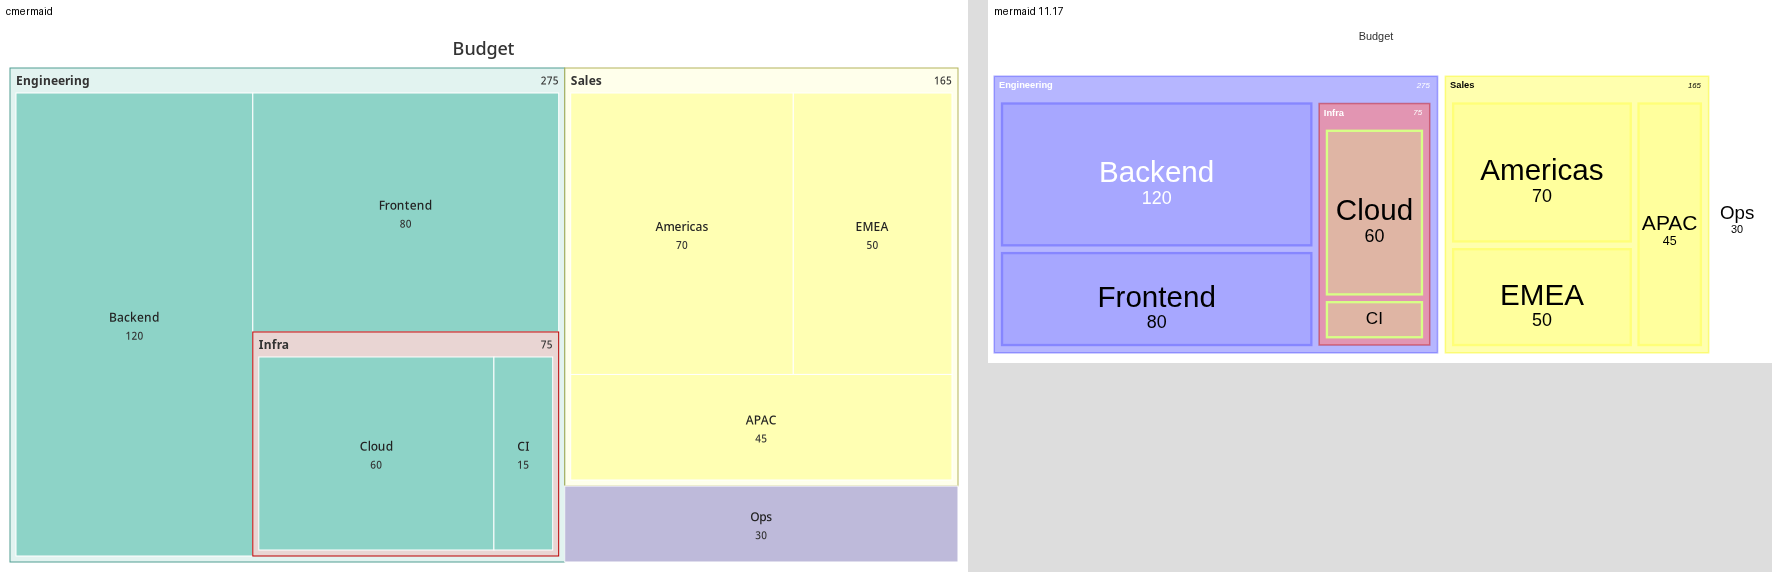
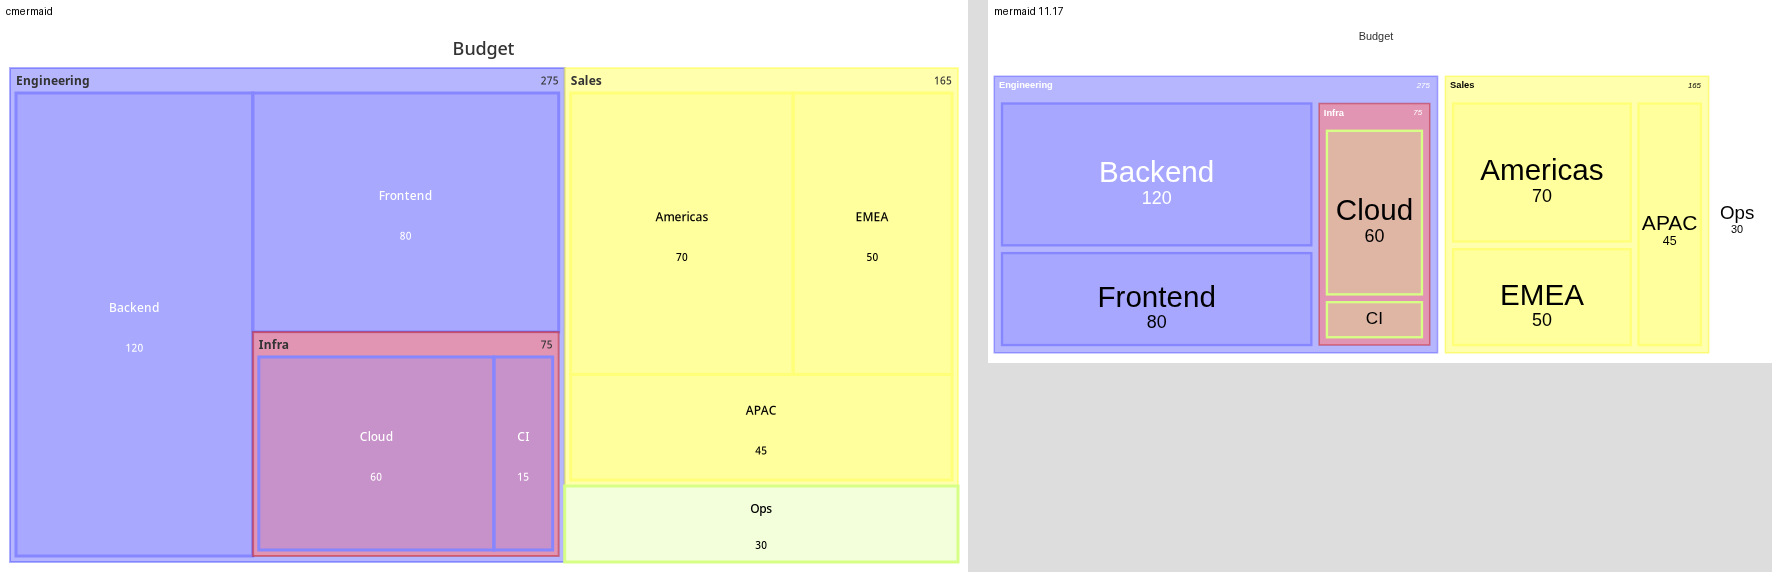
treemap: mermaid 11 cScale palette, translucent leaves with colour borders, fitted large leaf labels

diff --git a/src/d_treemap.c b/src/d_treemap.c
@@ -17,13 +17,13 @@ typedef struct TNode {
 typedef struct TCls { Str name, fill, stroke, color; } TCls;
 
 static constexpr char CSS[] =
-    "#mermaid .sh{font-size:12px;font-weight:bold;fill:#333;}#mermaid .lf{stroke:#fff;stroke-width:1px;}"
-    "#mermaid .ln{font-size:12px;fill:#222;}#mermaid .lv{font-size:10px;fill:#333;}"
-    "#mermaid .sec{fill-opacity:.25;stroke-width:1px;}#mermaid .ttl{font-size:18px;fill:#333;}";
-static const char *const SEC[] = {"#8dd3c7", "#ffffb3", "#bebada", "#fb8072", "#80b1d3", "#fdb462",
-                                  "#b3de69", "#fccde5", "#d9d9d9", "#bc80bd", "#ccebc5", "#ffed6f"};
-static const char *const SECD[] = {"#4f9e92", "#b3b35c", "#7a74a8", "#c0453a", "#3f7aa3", "#c27d26",
-                                   "#76a12d", "#c48aa8", "#8f8f8f", "#7d3f7e", "#7fae78", "#b3a227"};
+    "#mermaid .sh{font-size:12px;font-weight:bold;fill:#333;}#mermaid .lf{fill-opacity:.3;stroke-width:3px;}"
+    "#mermaid .sv{font-size:10px;font-style:italic;fill:#333;}"
+    "#mermaid .sec{fill-opacity:.6;stroke-width:2px;stroke-opacity:.4;}#mermaid .ttl{font-size:18px;fill:#333;}";
+/* mermaid 11 default cScale (hsl(h,100%,~76%)): sections fill .6 opacity, leaves .3 with a 3px same-colour border */
+static const char *const SEC[] = {"#8686ff", "#ffff78", "#d7ff86", "#86c2ff", "#86ffff", "#86ffc2", "#ff86ff", "#ff8686"};
+static const char *const SECD[] = {"#3939ff", "#ffff2c", "#b5ff20", "#399cff", "#39ffff", "#39ff9c", "#ff39ff", "#ff3939"};
+static const char *const SECT[] = {"#fff", "#000", "#000", "#000", "#000", "#000", "#000", "#000"};
 
 static double worst(double s, double mn, double mx, double side) {
     double s2 = s * s, w2 = side * side;
@@ -200,25 +200,32 @@ DIAG_FN(treemap_render) {
         buf_lit(out, "\" fill=\"");
         if (uc && uc->fill.n) buf_xml(out, uc->fill); else buf_put(out, strlen(fill), fill);
         buf_lit(out, "\" stroke=\"");
-        if (uc && uc->stroke.n) buf_xml(out, uc->stroke); else buf_put(out, strlen(st), st);
+        if (uc && uc->stroke.n) buf_xml(out, uc->stroke); else if (leaf) buf_put(out, strlen(fill), fill); else buf_put(out, strlen(st), st);
         buf_lit(out, "\"/>");
         fmt_val(t->v, sizeof nb, nb, &nl);
         if (!leaf) {
             if (t->w > 30) {
                 dg_text(out, t->label, 12, t->x + 6, t->y + HDR / 2, "start", "sh");
                 if (t->w > text_width(t->label, 12) + text_width((Str){.p = nb, .n = nl}, 10) + 24)
-                    dg_text(out, (Str){.p = nb, .n = nl}, 10, t->x + t->w - 6, t->y + HDR / 2, "end", "lv");
+                    dg_text(out, (Str){.p = nb, .n = nl}, 10, t->x + t->w - 6, t->y + HDR / 2, "end", "sv");
             }
             continue;
         }
-        double fsz = fmin(16, fmax(8, fmin(t->w / (double)(t->label.n + 2) * 1.6, t->h / 3)));
+        /* mermaid fits leaf labels up to 38px; value at ~0.6x */
+        double fsz = fmin(38, fmax(8, fmin((t->w - 12) / fmax(1, text_width(t->label, 1)), t->h / 2.2)));
+        double vsz = fmax(8, fmin(23, fsz * 0.6));
+        const char *tc = SECT[t->sec % countof(SECT)];
         if (t->w > 20 && t->h > 20) {
+            buf_lit(out, "<g fill=\""); buf_put(out, strlen(tc), tc); buf_lit(out, "\">");
             char cl[64];
             snprintf(cl, sizeof cl, "ln\" font-size=\"%.1f", fsz);
             if (uc && uc->color.n) { dg_text_open(out, t->x + t->w / 2, t->y + t->h / 2 - fsz * 0.45, "middle", cl);
                 buf_lit(out, "<tspan fill=\""); buf_xml(out, uc->color); buf_lit(out, "\">"); buf_xml(out, t->label); buf_lit(out, "</tspan></text>"); }
             else dg_text(out, t->label, fsz, t->x + t->w / 2, t->y + t->h / 2 - fsz * 0.45, "middle", cl);
-            dg_text(out, (Str){.p = nb, .n = nl}, 10, t->x + t->w / 2, t->y + t->h / 2 + fsz * 0.7, "middle", "lv");
+            char vc[64];
+            snprintf(vc, sizeof vc, "lv\" font-size=\"%.1f", vsz);
+            dg_text(out, (Str){.p = nb, .n = nl}, vsz, t->x + t->w / 2, t->y + t->h / 2 + fsz * 0.25 + vsz * 0.6, "middle", vc);
+            buf_lit(out, "</g>");
         }
     }
     if (title.n) dg_text(out, title, 18, W / 2, 20, "middle", "ttl");
